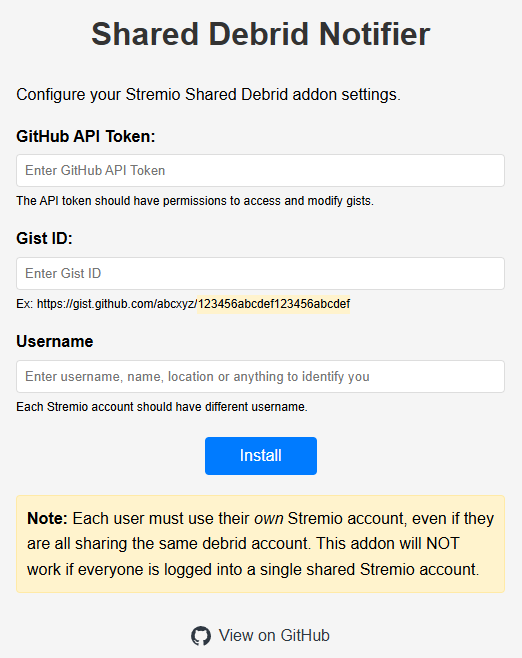
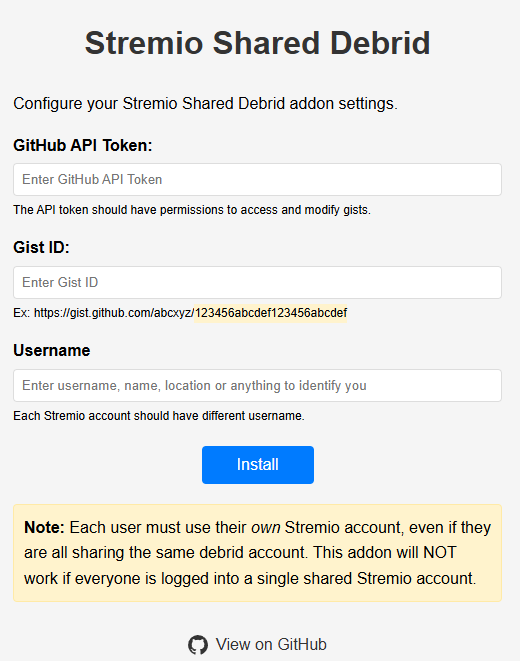
Update configure page and README.md doc file

Changed region(s): [[0.0, 0.1216, 0.9846, 0.9119], [0.1538, 0.0304, 0.8308, 0.0912], [0.3385, 0.9422, 0.6462, 1.0]]

diff --git a/web/configure/index.html b/web/configure/index.html
@@ -3,7 +3,7 @@
 <head>
     <meta charset="UTF-8">
     <meta name="viewport" content="width=device-width, initial-scale=1.0">
-    <title>Shared Debrid Notifier</title>
+    <title>Stremio Shared Debrid</title>
     <style>
         body {
             font-family: Arial, sans-serif;
@@ -94,7 +94,7 @@
 </head>
 <body>
     <div class="container">
-        <h1>Shared Debrid Notifier</h1>
+        <h1>Stremio Shared Debrid</h1>
         <p>Configure your Stremio Shared Debrid addon settings.</p>
 
         <form id="configureForm">

diff --git a/README.md b/README.md
@@ -1,4 +1,4 @@
-## Shared Debrid Notifier for Stremio streams
+## Stremio Shared Debrid
 ### Deployment
 This repo is ready for deploy to any hosting service but For simplicity, let's pick Vercel.
 
